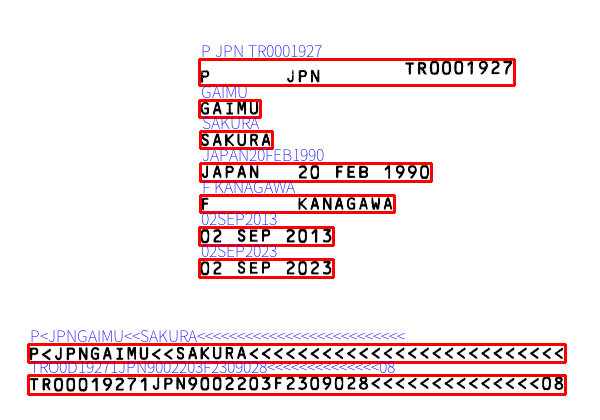
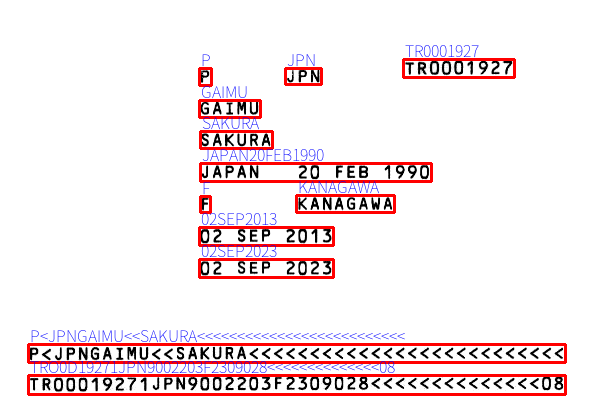
1.8.1

Changed region(s): [[0.33, 0.0929, 0.87, 0.2167], [0.33, 0.4333, 0.63, 0.5262]]

diff --git a/jpocr/passport_ocr.py b/jpocr/passport_ocr.py
@@ -7,6 +7,7 @@ import platform
 import os
 from passport import Passport
 from datetime import datetime
+import json
 
 # 目标图
 sample_img_path = ""
@@ -55,16 +56,11 @@ def ocr_by_key(img, key):
 
     if key == "line":
         builder = pyocr.builders.LineBoxBuilder(tesseract_layout=6)
-
-    elif key == "digits":
-        # chars = string.ascii_uppercase + string.digits + "<"
-        # digits_config = (
-        #     f"--psm 6 tessedit_char_whitelist {chars}"  # Only recognize digits
-        # )
-        builder = pyocr.builders.DigitLineBoxBuilder(tesseract_layout=6)
+        builder.tesseract_configs.append("_my_word")
 
     elif key == "word":
         builder = pyocr.builders.WordBoxBuilder(tesseract_layout=6)
+        builder.tesseract_configs.append("_my_word")
 
     else:
         print("key is error.")
@@ -99,10 +95,12 @@ def render_doc_text(file_path):
 
 # 标记识别结果，并显示图片
 def rect_set(img, data_list):
+    i = 0
     for data in data_list:
         rect = data.position
         text = data.content
-        print(f"text：{text}   rect：{rect}")
+        print(f"{i}{text}   {rect}")
+        i += 1
     # 遍历每个矩形，绘制在图片上
     for data in data_list:
         rect = data.position
@@ -207,13 +205,10 @@ def get_right_area():
         # 定义要绘制的文本和位置
         text = data.content
 
-        if find_passport:
+        if "p" == text.lower():
             x = rect[0][0] - 2
             y = rect[0][1] - 2
             break
-
-        if "PASSPORT" == text:
-            find_passport = True
 
     return (x, y - 8)
 
@@ -335,7 +330,8 @@ def get_main_area():
     print(f"foot_area: {foot_area}")
 
     # 获取右侧区域的右上角坐标 (x,y)
-    right_point = get_right_area()
+    # right_point = get_right_area()
+    right_point = (199, 60)
     print(f"right_point: {right_point}")
 
     # cv2.rectangle(img, foot_area[0], foot_area[1], (0, 0, 255), 2)
@@ -412,33 +408,24 @@ def init(passport: Passport):
     set_tessract_app()
 
     # 是否进入调试模式
-    if config_options["DEBUG"].lower()=='true':
+    if config_options["DEBUG"].lower() == "true":
         debug_mode = True
-    elif config_options["DEBUG"].lower()=='false':
+    elif config_options["DEBUG"].lower() == "false":
         debug_mode = False
     else:
         print("ocr_configs.ini Debug value is ERROR!")
-
 
     # text_imgs
     text_imgs = config_options["OUTPUT_FOLDER_PATH"] + "/text_imgs"
 
 
 # 识别后数据输出到文本文件中
-def output_data2text_file(passport: Passport, data_list):
-    output_data_file = config_options["OUTPUT_FOLDER_PATH"] + "/data.txt"
+def output_data2text_file(passport_list):
+    output_data_file = config_options["OUTPUT_FOLDER_PATH"] + "/data.json"
 
     # 打开文件，将文件指针移动到文件的末尾
     with open(output_data_file, "a") as f:
-        current_time = datetime.now()
-        formatted_time = current_time.strftime("%Y-%m-%d %H:%M:%S")
-        f.write(f"[{formatted_time}][{passport.file_name}]\n")  # 写入时间并换行
-
-        for data in data_list:
-            text = data.content
-            f.write(text + "\n")  # 写入一行并换行
-
-        f.write("\n")  # 换行
+        json.dump([passport.info for passport in passport_list], f)
 
 
 # 分离图片上的文字
@@ -448,20 +435,66 @@ def extract_text_from_image(img, data_list, passport):
     border_color = [255, 255, 255]  # 白色
 
     # 遍历每个矩形，绘制在图片上
-    i=0
+    i = 0
     for data in data_list:
         rect = data.position
         x1, y1, x2, y2 = rect[0][0], rect[0][1], rect[1][0], rect[1][1]
         # 定义要绘制的文本和位置
         text = data.content
 
-        img_part = img[ y1-2: y2+2 ,x1-2: x2+2]
-        border_img = cv2.copyMakeBorder(img_part, border_width, border_width, border_width, border_width,
-                                cv2.BORDER_CONSTANT, value=border_color)
+        img_part = img[y1 - 2 : y2 + 2, x1 - 2 : x2 + 2]
+        border_img = cv2.copyMakeBorder(
+            img_part,
+            border_width,
+            border_width,
+            border_width,
+            border_width,
+            cv2.BORDER_CONSTANT,
+            value=border_color,
+        )
 
-        file_name=passport.file_name.split('.')[0]
+        file_name = passport.file_name.split(".")[0]
         cv2.imwrite(f"{text_imgs}/{file_name}_{str(i).zfill(3)}_{text}.png", border_img)
-        i+=1
+        i += 1
+
+
+# 获取护照信息
+def datalist2info(passport: Passport, data_list):
+    ret = {}
+
+    ocr_texts = ""
+    for data in data_list:
+        # 文本
+        ocr_texts += f"{data.content} {data.position}\n"
+
+    ret["file_name"] = passport.file_name
+
+    now_str = datetime.now().strftime("%Y-%m-%d %H:%M:%S")
+    ret["time"] = now_str
+
+    if len(data_list) != 12:
+        ret["msg"] = "识别后文字信息行数不为12，有识别错误。"
+        ret["ocr_texts"] = ocr_texts
+        return ret
+
+    ret["msg"] = ""
+    ret["ocr_texts"] = ocr_texts
+
+    ret["Type"] = data_list[0].content
+    ret["Issuing country"] = data_list[1].content
+    ret["Passport No."] = data_list[2].content
+    ret["Surname"] = data_list[3].content
+    ret["Given name"] = data_list[4].content
+    ret["Nationality"] = data_list[5].content[0:-9]
+    ret["Date of birth"] = data_list[5].content[-9:]
+    ret["Sex"] = data_list[6].content
+    ret["Registered Domicile"] = data_list[7].content
+    ret["Dete of issue"] = data_list[8].content
+    ret["Dete of expiry"] = data_list[9].content
+    ret["foot1"] = data_list[10].content
+    ret["foot2"] = data_list[11].content
+
+    return ret
 
 
 def run(passport: Passport, _config_options: dict):
@@ -479,7 +512,9 @@ def run(passport: Passport, _config_options: dict):
     img = cv2.imread(sample_edited_img_path, cv2.IMREAD_GRAYSCALE)
 
     # OCR
-    data_list = ocr_by_key(img, "digits")
+    data_list = ocr_by_key(img, "word")
+    # 获取护照信息
+    passport.info = datalist2info(passport, data_list)
 
     # 新建文字信息拆分后数据文件夹
     extract_text_from_image(img, data_list, passport)
@@ -506,7 +541,3 @@ def run(passport: Passport, _config_options: dict):
 
     # 显示拼接后的图像
     _imshow("Horizontal Concatenation", h_concat)
-
-    # 识别后数据输出到文本文件中
-    output_data2text_file(passport, data_list)
-

diff --git a/jpocr/main.py b/jpocr/main.py
@@ -41,7 +41,7 @@ def init():
         os.makedirs(config_options["OUTPUT_FOLDER_PATH"])  # 然后再创建它
 
     #新建输出数据文件
-    output_data_file = config_options["OUTPUT_FOLDER_PATH"]+"/data.txt"
+    output_data_file = config_options["OUTPUT_FOLDER_PATH"]+"/data.json"
     open(output_data_file, "w")
 
     #新建文字信息拆分后数据文件夹
@@ -63,4 +63,7 @@ if __name__ == "__main__":
             passport = Passport(file_name)
             passport_ocr.run(passport,config_options)
             passport_list.append(passport)
+
+    # 识别后数据输出到文本文件中
+    passport_ocr.output_data2text_file(passport_list)
 

diff --git a/jpocr/passport.py b/jpocr/passport.py
@@ -13,3 +13,7 @@ class Passport:
         self.sign_file_name = f"{name}_sign.png"
         # 图像识别后文件
         self.tessract_file_name = f"{name}_tessract.png"
+        # OCR数据
+        self.data_list = []
+        # 护照信息
+        self.info={}

diff --git a/readme.md b/readme.md
@@ -65,10 +65,8 @@ https://www.jianshu.com/p/f7cb0b3f337a
 ### 设置白名单
 
 1. 找到本机安装的 `Tesseract-OCR` 的文件夹
-1. 打开 `Tesseract-OCR\tessdata\configs\digits` 文件
-1. 复制 `tessedit_char_whitelist 0123456789ABCDEFGHIJKLMNOPQRSTUVWXYZ<`
-1. 覆盖 `tessedit_char_whitelist 0123456789-.`
-1. 保存 `digits` 文件
+1. 打开 `Tesseract-OCR\tessdata\configs\` 文件夹
+1. 复制 `res/_my_word` 文件到 `configs` 文件夹
 
 ### 设置自定义模型
 
@@ -86,7 +84,15 @@ https://www.jianshu.com/p/f7cb0b3f337a
 参考 `jpocr\passport_imgs\sample.jpg`
 
 ### 输出结果以及说明
-参考 `jpocr\output\`
+jpocr\output\
+
+| 文件名 | 说明 |
+| --- | --- |
+| *_edited.png | 图像处理后的图像 |
+| *_sign.png | 签名图像 |
+| *_tessract.png | OCR图像 |
+| data.json | 存放处理后的护照信息 |
+| text_imgs | 存放切割后的文字块的文件夹 |
 
 ## 训练
 
